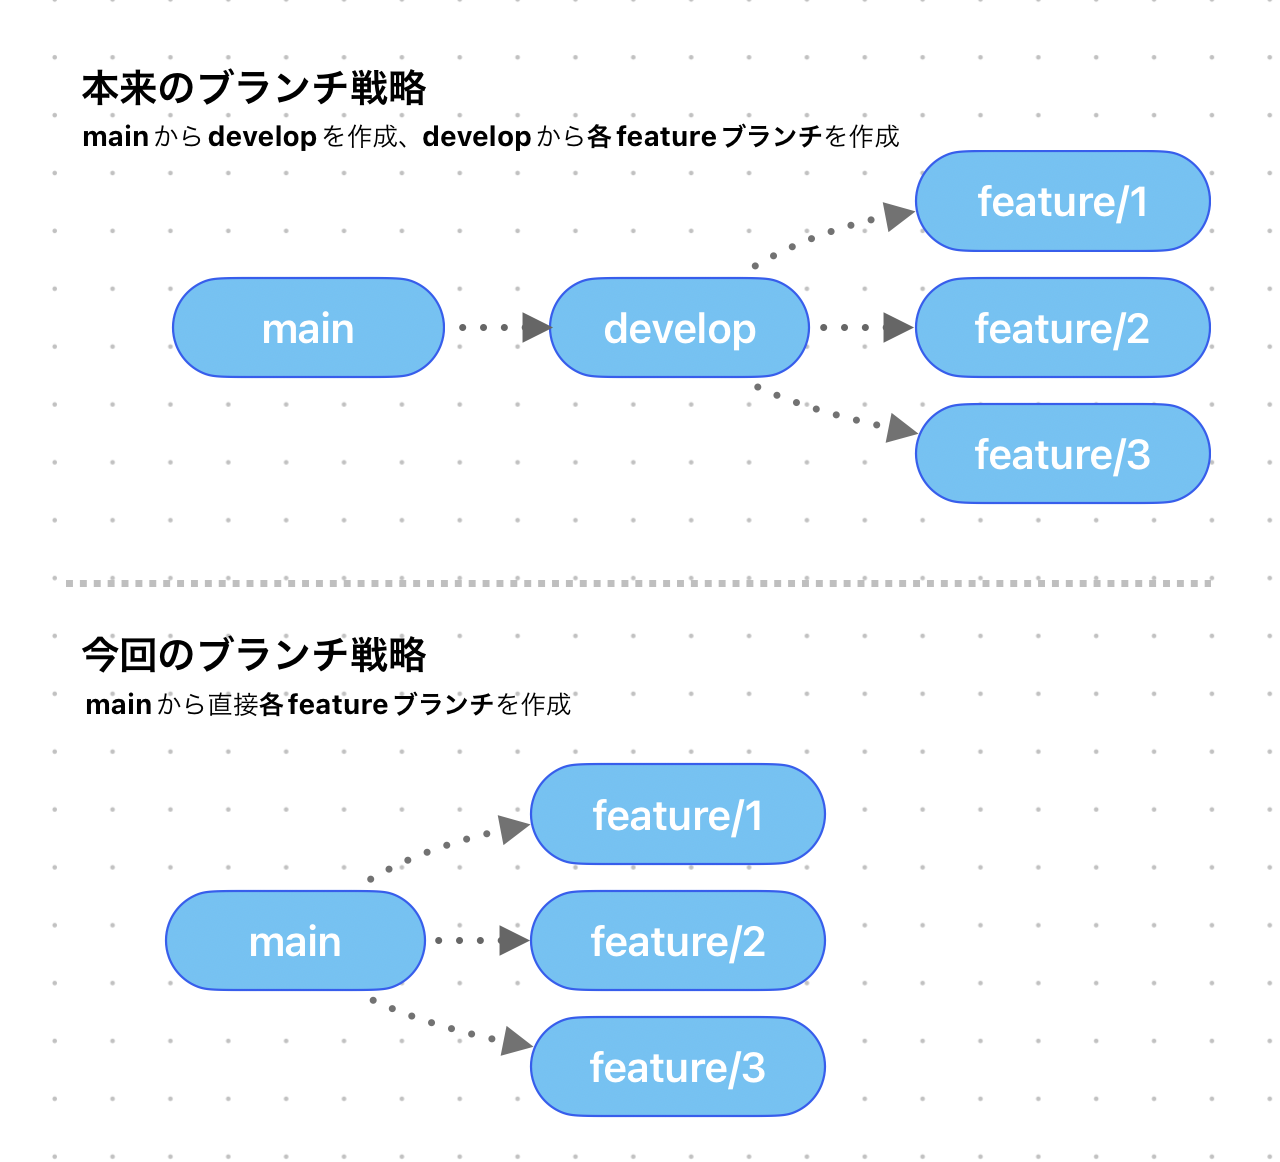
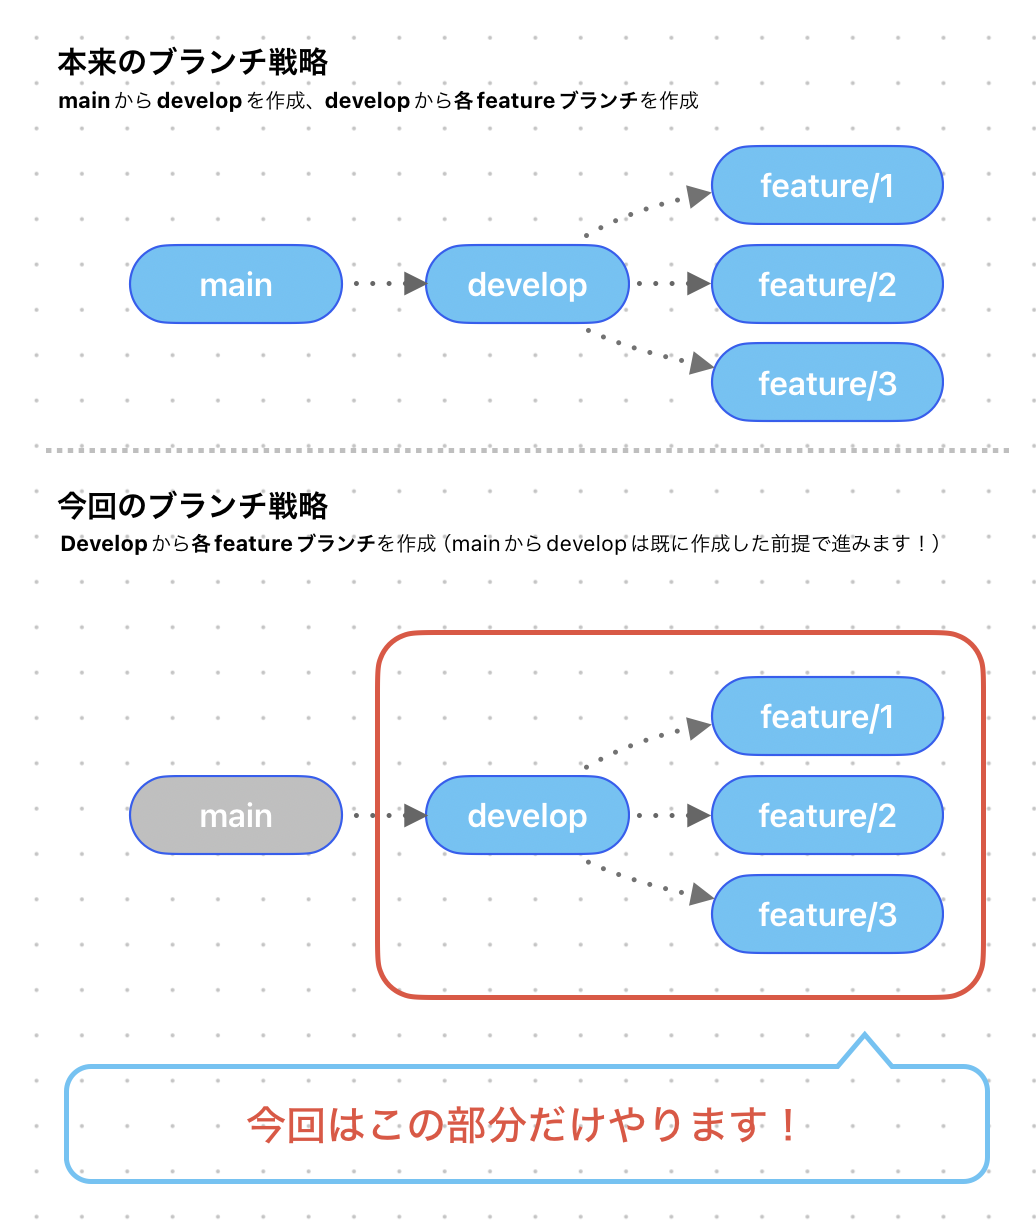
fix: 切るところをdevelopブランチに修正

diff --git a/README.md b/README.md
@@ -60,6 +60,7 @@ issue作成画面が出現するので、タスク内容を記載していきま
 ## 2. issueをもとにブランチを作成する
 
 issueを作成した際に番号が自動生成されます。その番号を元にブランチを作成するので、issueと作業ブランチが対応関係になります。
+今回は「2」という番号が自動生成されているので、`feature/2`というブランチを作成します！
 
 ![GitHub Clone](./images/ph1-idd-sample-step4.png)
 
@@ -68,22 +69,24 @@ issueを作成した際に番号が自動生成されます。その番号を元
 
 ![GitHub Clone](./images/ph1-idd-sample-step5.png)
 
-画面左側に「main」と書いてあるUIがあるのでクリックしましょう！
+画面左側に「main」と書いてあるボタンがあるのでクリックしましょう！
 
 ![GitHub Clone](./images/ph1-idd-sample-step6.png)
 
 検索バーにブランチ名を入力することで新しくブランチが作成できます。
-今回はissueの番号が「2」だったので、`feature/2`というブランチを作成します。
+繰り返しますが、今回はissueの番号が「2」だったので、`feature/2`というブランチを作成します。
 ここは各自作成したissueの番号を入力してください。
 
 ![GitHub Clone](./images/ph1-idd-sample-step7.png)
 
-入力後「Create branch feature/? from main」をクリックすると、ブランチが作成されます。
+入力後「Create branch feature/? from develop」をクリックすると、ブランチが作成されます。
+
+「Create branch feature/? from `develop`」であって「Create branch feature/? from `main`」ではないので注意してください。
 もし誤った名称のブランチを作成してしまっても、新しく作り直せば問題ありません。
 
 ### 補足
 
-本来はmainブランチ→developブランチ→作業ブランチと切り分けていきますが、あくまで擬似issue駆動開発体験なので、developブランチを切る工程は省略し、mainブランチから作業ブランチを作成します。
+本来はmainブランチ→developブランチ→作業ブランチと切り分けていきますが、あくまで擬似issue駆動開発体験なので、mainブランチからdevelopブランチを切る工程は省略し、最初からdevelopブランチから作業ブランチを作成します。
 
 ![GitHub Clone](./images/ph1-idd-branch.png)
 
@@ -122,9 +125,14 @@ git checkout feature/?
 やり方は[Level 2 テキスト](https://github.com/posse-ap/curriculum/blob/main/PH1/PH1_Git_GitHub_Level_2.md#4-%E3%82%B3%E3%83%B3%E3%83%95%E3%83%AA%E3%82%AF%E3%83%88)を参考にしてください！
 
 コマンドを打ち終わったらGitHubへ移動し、PRを作成しましょう！
-PRの反映先は必ず`main`にしてください！
+PRの反映先は必ず`develop`にしてください！
 
 ![GitHub Clone](./images/ph1-idd-sample-step14.png)
+
+```text
+💡 作業ブランチは「develop」から切ったので反映するのも「develop」になります
+基本的にはPRの反映先は切ったブランチ（親ブランチ）です
+```
 
 PRを作成したらDiscordにてレビュー依頼をしましょう。
 自分以外のメンバーにコードの変更をレビューしてもらうことで、客観的な視点でコードの改善点等を指摘してもらえます。
@@ -163,8 +171,8 @@ Merge Pull Requestボタンをクリックして完了です！
 
 ![GitHub Clone](./images/ph1-idd-sample-step18.png)
 
-実際にmainに反映されたか確認しましょう
-もう一度VScodeで`git fetch`をして左のファイル一覧を見てみましょう！
+実際に`develop`に反映されたか確認しましょう
+`git checkout develop`でdevelopブランチへ移動して、もう一度VScodeで`git fetch`をして左のファイル一覧を見てみましょう！
 
 feature/2で作成したファイルが反映されていますね！これで擬似issue駆動開発体験は完了です！！！
 
